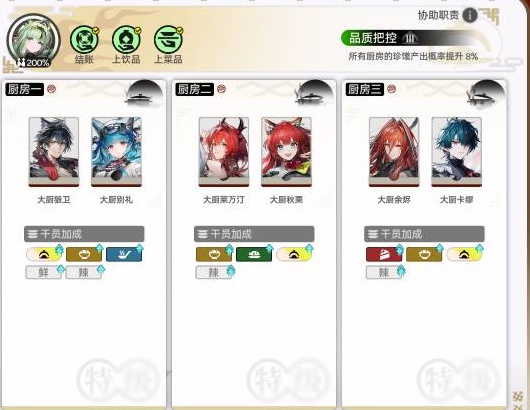
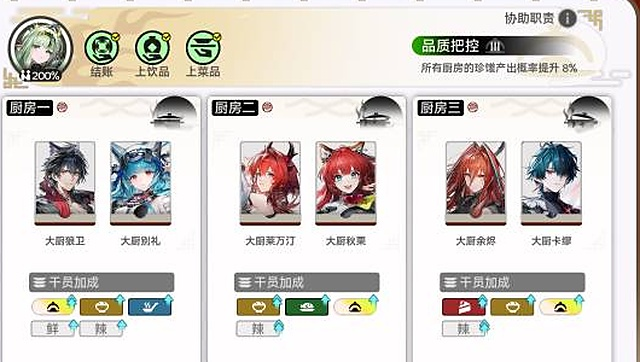
README：三张设置截图统一宽度，厨房图去掉空白

diff --git a/README_EN.md b/README_EN.md
@@ -34,7 +34,7 @@ The program was built around the author's setup. With a different one it may mis
 
 ### Menu: 8 dishes + 6 drinks
 
-![Menu](docs/menu.jpg)
+<img src="docs/menu.jpg" width="640" alt="Menu">
 
 **Dishes (in this order)**: 界龙肉卷, 茄汁白瓜, 糯米凉糕, 酸辣汤, 手擀素面, 肉包子, 菌菇蒸饺, 豌杂拌面
 
@@ -45,13 +45,13 @@ The program was built around the author's setup. With a different one it may mis
 
 **Drinks (in this order)**: 瓶装霞莓饮 (fruit-scented / 果香), 潮前龙井 (tea-scented / 茶香), 梨花香茶, 大碗碎茶, 瓶装脆蔗汁, 玉米汁
 
-![Drinks](docs/drinks.jpg)
+<img src="docs/drinks.jpg" width="640" alt="Drinks">
 
 - **霞莓饮 must be first and 潮前龙井 second**: the program clicks fixed positions in the drink station panel (top-left = fruit-scented, top-right = tea-scented).
 
 ### Kitchen
 
-![Kitchen setup](docs/kitchen.jpg)
+<img src="docs/kitchen.jpg" width="640" alt="Kitchen setup">
 
 | Kitchen | Operators |
 |---|---|

diff --git a/README.md b/README.md
@@ -32,7 +32,7 @@
 
 ### 菜单：8 道菜 + 6 种饮品
 
-![菜单](docs/menu.jpg)
+<img src="docs/menu.jpg" width="640" alt="菜单">
 
 **菜（按这个顺序）**：界龙肉卷、茄汁白瓜、糯米凉糕、酸辣汤、手擀素面、肉包子、菌菇蒸饺、豌杂拌面
 
@@ -43,13 +43,13 @@
 
 **饮品（按这个顺序）**：瓶装霞莓饮（果香）、潮前龙井（茶香）、梨花香茶、大碗碎茶、瓶装脆蔗汁、玉米汁
 
-![饮品](docs/drinks.jpg)
+<img src="docs/drinks.jpg" width="640" alt="饮品">
 
 - **霞莓饮第一个、潮前龙井第二个**不能换：程序在饮品台面板里按固定位置点（左上是果香、右上是茶香）。
 
 ### 厨房
 
-![厨房配置](docs/kitchen.jpg)
+<img src="docs/kitchen.jpg" width="640" alt="厨房配置">
 
 | 厨房 | 干员 |
 |---|---|
